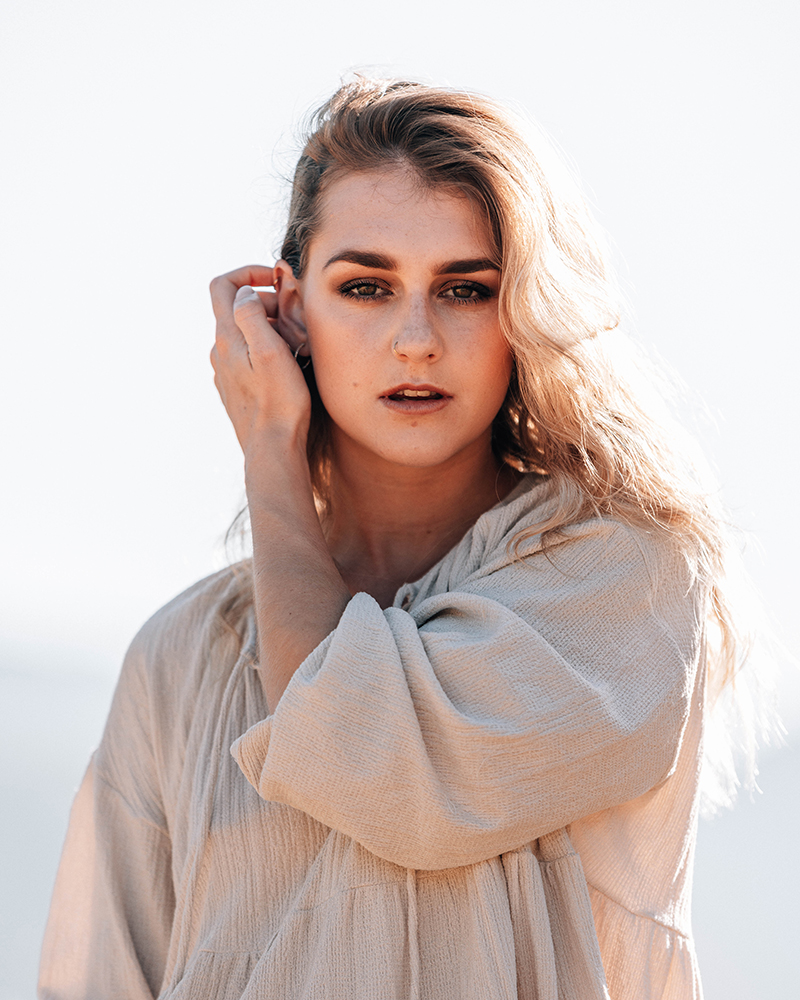
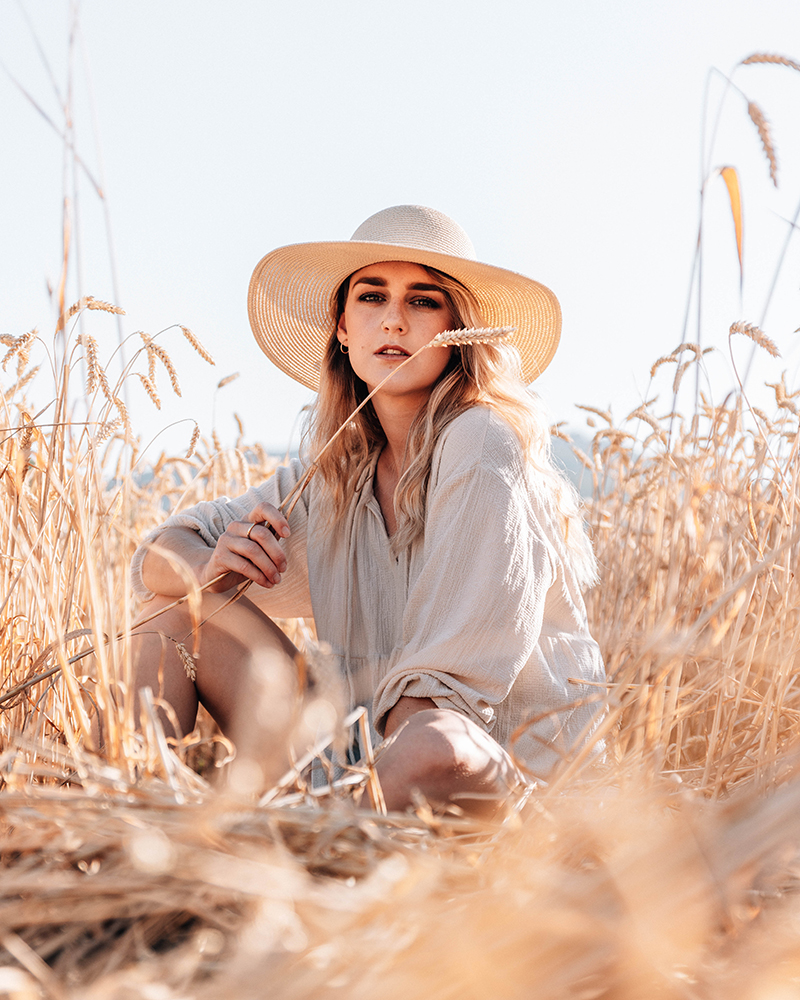
Specs Section
Es wurde die vollständige Specs Section erstellt.

diff --git a/css/style.css b/css/style.css
@@ -7,7 +7,7 @@
 @font-face {
     font-family: "Outfit";
     src: url("../fonts/Outfit-Medium.woff2") format("woff2");
-    font-weight: 600;
+    font-weight: 500;
 }
 @font-face {
     font-family: "Outfit";
@@ -33,15 +33,17 @@
 :root {
     --font-main: "Outfit", sans-serif;
     --font-script: "Caveat", cursive;
-    --color-primary:        #C74A4C;  /* Primärfarbe (Rot) */
-    --color-secondary:      #91D34A;  /* Sekundärfarbe (Grün, Schreibschrift) */
-    --color-text:           #102B3A;  /* Textfarbe */
-    --color-bg:             #F0ECE3;  /* Hintergrundfarbe */
-    --color-box:            #FCFFFF;  /* Boxfarbe (Karten, Nav, Footer) */
-    --color-button-text:    #FFFFFF;  /* Buttonfarbe (Schrift auf rotem Button) */
-    --color-form:           #F7F7F7;  /* Formularfarbe */
-    --color-form-border:    #DEDEDE;  /* Formularfarbe-Kontur */
+    --color-primary: #C74A4C;
+    --color-secondary: #91D34A;
+    --color-text: #102B3A;
+    --color-bg: #F0ECE3;
+    --color-box: #FCFFFF;
+    --color-button-text: #FFFFFF;
+    --color-form: #F7F7F7;
+    --color-form-border: #DEDEDE;
     --global-max-width: 80vw;
+    --hero-size: clamp(5rem, 15vw, 11rem);
+    --box-shadow: 0 4px 24px rgb(16 43 58 / 0.02);
 }
 
 * {
@@ -58,6 +60,8 @@ body {
             var(--color-box) 100%
     );
 }
+
+/* Header */
 
 header {
     min-height: 100vh;
@@ -79,11 +83,11 @@ header {
     background-color: color(from var(--color-box) srgb r g b / 0.7);
     backdrop-filter: blur(16px);
     border-radius: 1rem;
-    box-shadow: 0 4px 24px rgb(16 43 58 / 0.02);
+    box-shadow: var(--box-shadow);
 }
 
 .nav-list {
-    grid-column: 2;          /* mittlere Spalte */
+    grid-column: 2;
     display: flex;
     gap: 2.5rem;
     list-style: none;
@@ -114,6 +118,7 @@ header {
     cursor: pointer;
     justify-self: end;
 }
+
 .btn:hover {
     border: 2px solid var(--color-primary);
     background-color: var(--color-button-text);
@@ -128,9 +133,9 @@ header {
 
 .hero {
     display: grid;
-    justify-items: center;    /* horizontal zentriert */
-    align-content: center;    /* NEU: vertikal zentriert */
-    padding-top: 6rem;        /* Platz für die Nav */
+    justify-items: center;
+    align-content: center;
+    padding-top: 6rem;
     padding-bottom: 2rem;
 }
 
@@ -143,7 +148,7 @@ header {
 }
 
 .hero-title {
-    font-size: clamp(4rem, 14vw, 11rem);
+    font-size: var(--hero-size);
     line-height: 0.9;
 }
 
@@ -162,8 +167,9 @@ header {
     grid-row: 3;
     grid-column: 1;
     align-self: center;
-    z-index: 2;                 /* liegt vor der Kamera */
-    transform: translate(12rem, 3rem) rotate(-10deg);
+    z-index: 2;
+    font-size: calc(var(--hero-size) * 0.32);
+    transform: translate(calc(var(--hero-size) * 1.1), calc(var(--hero-size) * 0.27)) rotate(-10deg);
 }
 
 .hero-visual {
@@ -171,24 +177,105 @@ header {
     grid-column: 1;
     display: grid;
     justify-items: center;
-    margin-top: clamp(-4rem, -9vw, -1rem);  /* negativer Abstand = Überlappung */
+    margin-top: calc(var(--hero-size) * -0.35);
 }
 
 .hero-img {
-    width: 41%;
+    width: calc(var(--hero-size) * 2.95);
+    height: auto;
 }
 
 .shadow-cam {
-    width: 43%;
-    height: 60px;
-    margin-top: -3.5rem;        /* rutscht unter das Kamerabild */
+    width: 100%;
+    height: calc(var(--hero-size) * 0.34);
+    margin-top: calc(var(--hero-size) * -0.32);
+    margin-top: calc(var(--hero-size) * -0.32);
     background: radial-gradient(ellipse at center, rgb(16 43 58 / 0.35) 0%, transparent 70%);
     filter: blur(6px);
 }
 
-p, spec-list, dt, dd {
+/* Body */
+
+main {
+    max-width: var(--global-max-width);
+    margin: 0 auto;
+}
+
+p, .spec-list, dt, dd {
     font-weight: 400;
 }
+
+h3 {
+    font-size: 1.5rem;
+}
+
+.section-header {
+    margin-top: 100px;
+    margin-bottom: 30px;
+
+    h2 {
+        font-size: 3rem;
+    }
+
+    .script {
+        margin-top: -0.4em;
+        transform: rotate(-6deg);
+        transform-origin: left center;
+    }
+}
+
+.specs-grid {
+    display: grid;
+    grid-template-columns: 1fr 1fr 1fr 1fr;
+    gap: 2rem;
+}
+
+.card {
+    background-color: var(--color-box);
+    border-radius: 1rem;
+    padding: 1.5rem;
+    box-shadow: var(--box-shadow);
+}
+
+.specs-card {
+    display: flex;
+    flex-direction: column;
+    gap: 0.5rem;
+    padding: 30px;
+}
+
+.specs-wrapper {
+    margin-top: 2rem;
+}
+
+.specs-card-big {
+    display: grid;
+    grid-template-columns: 1fr 1fr;
+    gap: 1rem;
+    padding: 30px;
+}
+
+.spec-list {
+    padding-top: 30px;
+    display: grid;
+    gap: 0.5rem;
+}
+
+.spec-row {
+    display: grid;
+    grid-template-columns: 0.3fr 1fr;
+    gap: 1rem;
+
+    dt {
+        font-weight: 500;
+    }
+}
+
+#script-margin {
+    padding-top: 8px;
+}
+
+
 
 .polaroid {
     max-width: 20%;

diff --git a/index.html b/index.html
@@ -121,10 +121,10 @@
         <!-- ===== Was sie macht ===== -->
         <section class="section-header">
             <h2>Was sie macht.</h2>
-            <p class="script">Es paar Biudli</p>
+            <p class="script" id="script-margin">Es paar Biudli</p>
         </section>
         <section class="ref-wrapper">
-            <!-- Hochzeiten: Text links, Bilder rechts -->
+            <!-- Hochzeiten -->
             <article class="ref">
                 <div class="ref-card">
                     <p class="ref-category">Hochzeiten</p>
@@ -139,7 +139,7 @@
                     <p class="script ref-gallery-title">Hüenerhut.</p>
                 </div>
             </article>
-            <!-- Porträts: Bilder links, Text rechts (Reihenfolge per CSS) -->
+            <!-- Porträts -->
             <article class="ref">
                 <div class="ref-card">
                     <p class="ref-category">Porträts</p>
@@ -154,7 +154,7 @@
                     <p class="script ref-gallery-title">Im Spotlight.</p>
                 </div>
             </article>
-            <!-- Reisen: Text links, Bilder rechts -->
+            <!-- Reisen -->
             <article class="ref">
                 <div class="ref-card">
                     <p class="ref-category">Reisen</p>
